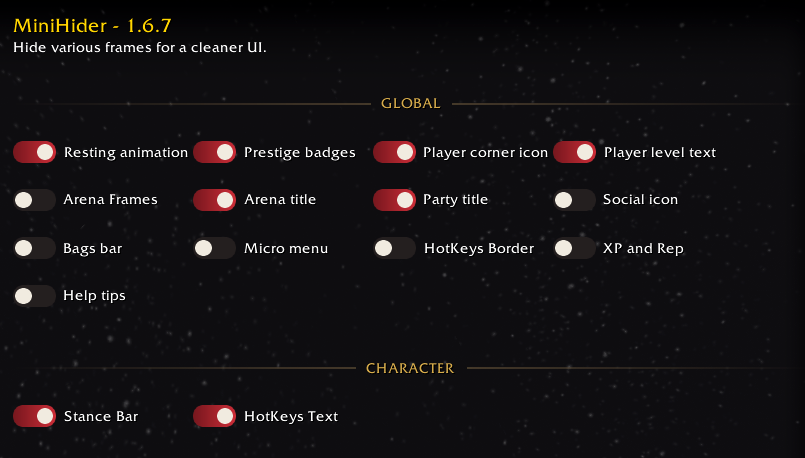
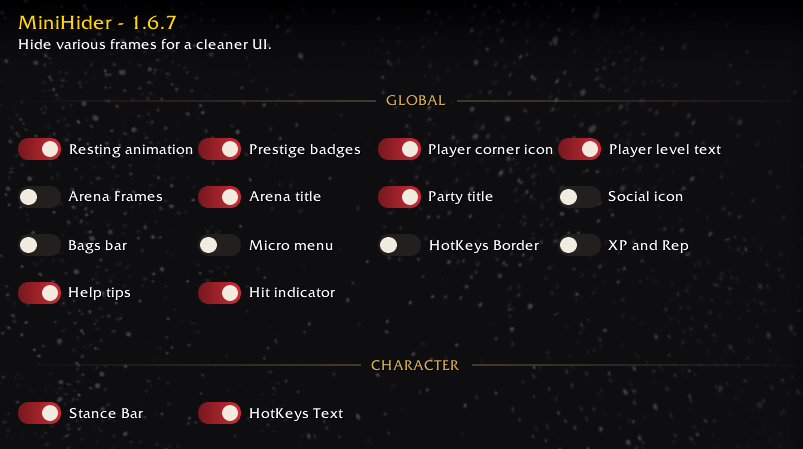
1.7.0

diff --git a/docs/bot-reference.md b/docs/bot-reference.md
@@ -2,13 +2,13 @@
 
 ## What it is
 
-MiniHider hides individual pieces of the default Blizzard UI for a cleaner look: the resting "zzz" animation, prestige badges, the player level text, party/arena frame titles, the bags bar, the micro menu, action bar hotkey text and borders, the XP/reputation bars, help tips, the stance bar, and more. Everything is a checkbox: checked = hidden, unchecked = shown.
+MiniHider hides individual pieces of the default Blizzard UI for a cleaner look: the resting "zzz" animation, prestige badges, the player level text, party/arena frame titles, the bags bar, the micro menu, action bar hotkey text and borders, the XP/reputation bars, help tips, the hit indicators, the stance bar, and more. Everything is a checkbox: checked = hidden, unchecked = shown.
 
 ## Facts
 
 | Item | Value |
 |---|---|
-| Addon version | 1.6.6 |
+| Addon version | 1.7.0 |
 | Author | Verz |
 | Interface versions (TOC) | 120100 (Retail only) |
 | Saved variables | MiniHiderDB (account-wide), MiniHiderCharDB (per character) |
@@ -45,6 +45,7 @@ Checked = hidden. Six elements are hidden by default on a fresh install; the res
 | HotKeys Border | Unchecked | The border (normal texture) on action bar buttons, bars 1-8 |
 | XP and Rep | Unchecked | The XP and reputation bars (status tracking bar) |
 | Help tips | Unchecked | Help tips such as new profession points and new collections (via the hideHelptips CVar) |
+| Hit indicator | Unchecked | The damage and healing numbers that flash over the player and pet portraits. Moved to a hidden parent rather than faded, because the client resets their alpha on every flash |
 
 ### Character settings (per character, "Character settings:" section)
 
@@ -71,4 +72,5 @@ There is no reset button and no other settings; the two sections above are the w
 - "There's a black square on my player portrait": that is the filler texture that patches the hole left by hiding the player corner icon. Unchecking "Player corner icon" removes it.
 - "MiniHider hid something another addon needs / another addon's frame": it only touches the specific Blizzard frames listed above, and only re-shows frames it hid itself.
 - "Help tips still appear": the setting sets the hideHelptips CVar when toggled; try toggling it off and on again out of combat, then check for other addons or game settings that manage help tips.
+- "The numbers still flash over my pet's portrait": the pet's indicator only exists while a pet is out, so summoning one after ticking the box leaves it showing until the next loading screen or the next time you toggle a setting. The player's is unaffected.
 - "Does it work on Classic?": no, the TOC only supports Retail 12.1.

diff --git a/changelog.md b/changelog.md
@@ -1,5 +1,11 @@
 # Changelog
 
+## 1.7.0
+
+Added an option to hide the hit indicators, the damage and healing numbers that flash over the player and pet portraits.
+
+Fixed the arena title being force-shown even when MiniHider was not the addon that hid it.
+
 ## 1.6.7
 
 UI improvements.
